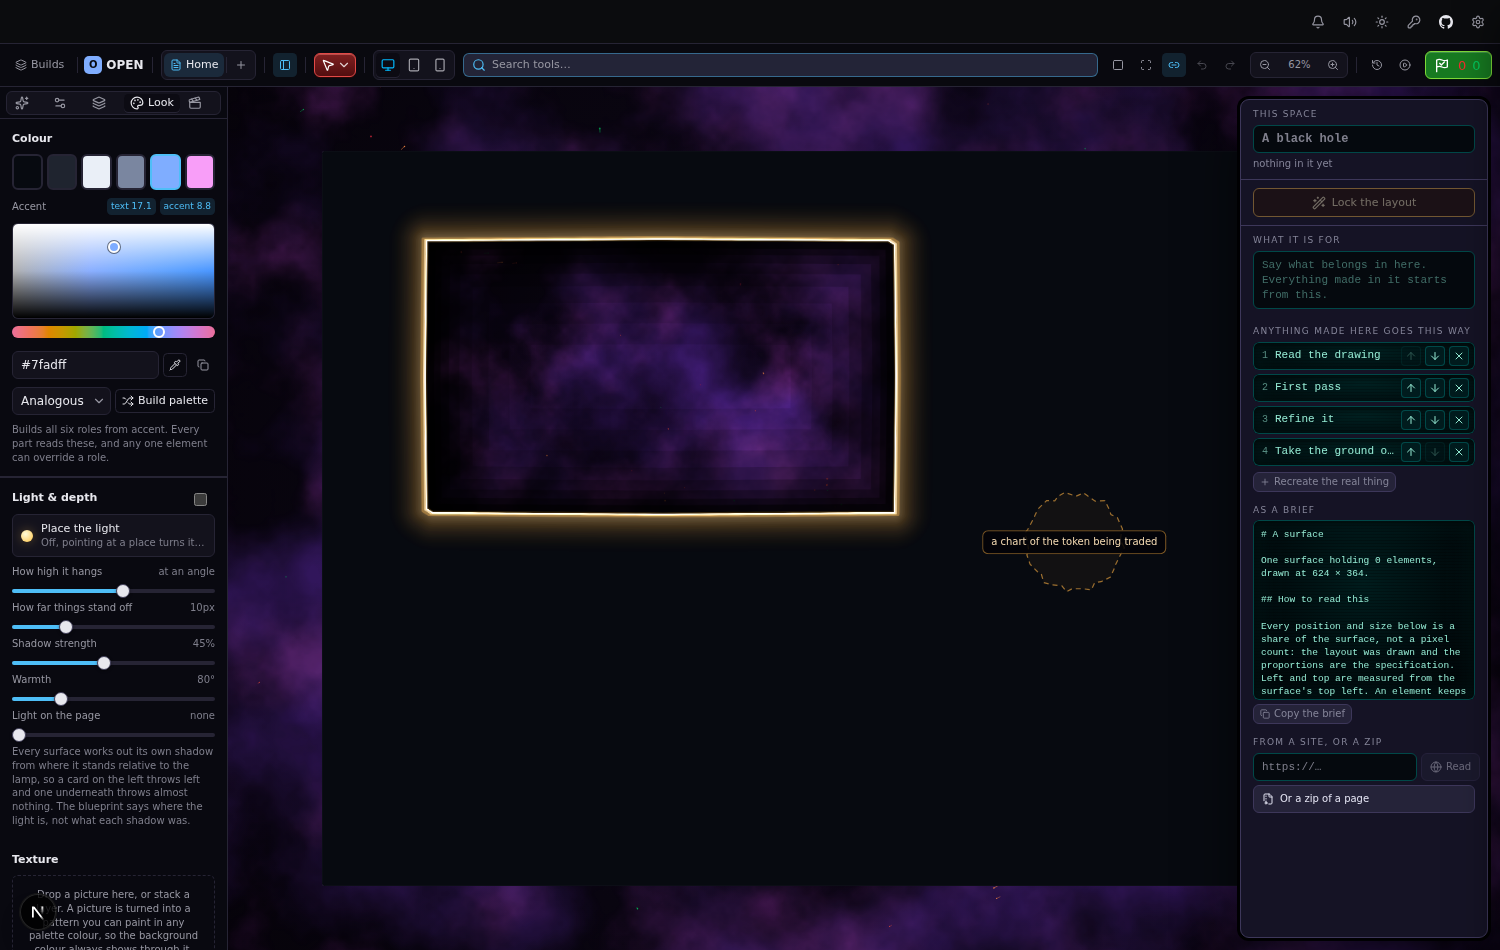
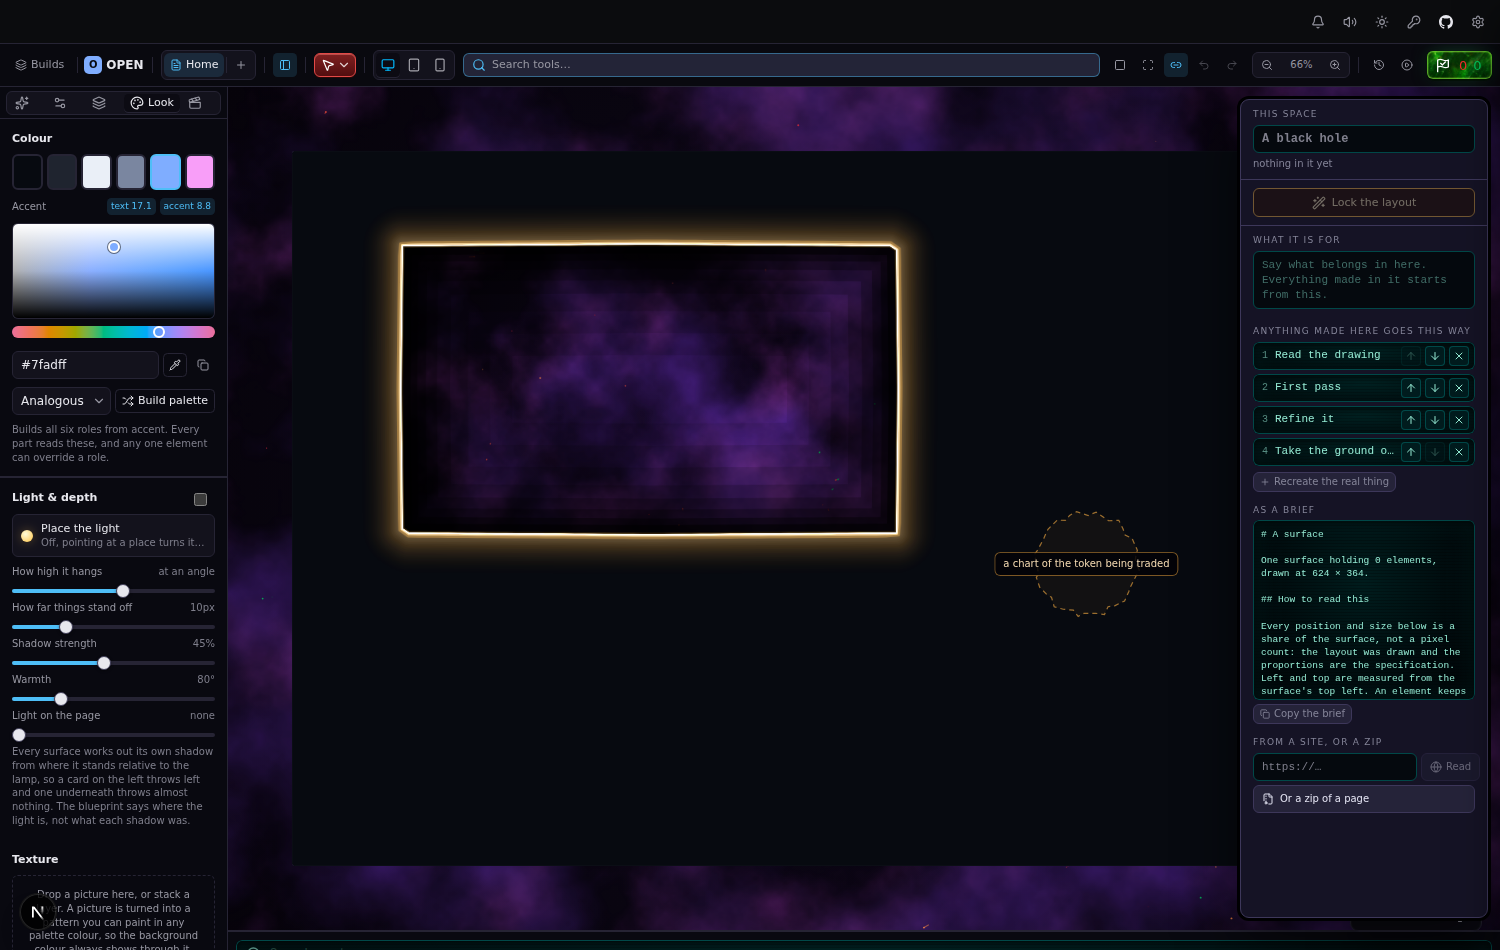
The ring sits the same hair off the line on every side
The hairs of the photon ring were laid outside the line by scaling the
whole shape from its centroid, which moves a point in proportion to its
distance from the middle: on a wide box the long sides got the ring five
pixels out and the short sides three. At the old zoom the aura check's
sample straddled that; on the full-length page the board fits by width
and the sample did not, and the check went red with lifts falling from
one side to another. Every point now moves out along its own normal, so
the ring is a hair off the line the same all the way round.

The check reads each side along its normal, the ring and the light beside
it, rather than one patch at a fixed distance that catches the ring's
peak on one side and lands a pixel past it on the mirrored one; the old
crescent still fails it, aura left 245 against right 19. The create-space
ground read takes a patch of the clouds rather than one pixel of them.

Claude-Session: https://claude.ai/code/session_011dxs3jh1JLZT6UEd7hCDPr

diff --git a/src/features/studio/blackHole.ts b/src/features/studio/blackHole.ts
@@ -243,6 +243,29 @@ function resample(path: SketchPoint[], n: number): SketchPoint[] {
   return out;
 }
 
+/**
+ * The path moved out along itself by `d`: every point along its own
+ * outward normal, not the whole shape scaled from its centroid. Scaling
+ * moves a point in proportion to its distance from the middle, so on a
+ * wide box the long sides went out further than the short ones and a hair
+ * meant to sit four pixels off the line sat five on one side and three on
+ * another. The ring is a hair off the line, the same hair all the way round.
+ */
+function outward(pts: SketchPoint[], d: number): SketchPoint[] {
+  const n = pts.length;
+  if (n < 3) return pts.slice();
+  const [cx, cy] = centroid(pts);
+  return pts.map(([x, y], i) => {
+    const a = pts[(i + n - 1) % n]!, b = pts[(i + 1) % n]!;
+    const tx = b[0] - a[0], ty = b[1] - a[1];
+    const len = Math.hypot(tx, ty) || 1;
+    let nx = ty / len, ny = -tx / len;
+    // Outward is away from the middle of the area, whichever way the line was drawn.
+    if (nx * (x - cx) + ny * (y - cy) < 0) { nx = -nx; ny = -ny; }
+    return [x + nx * d, y + ny * d];
+  });
+}
+
 function trace(c: CanvasRenderingContext2D, pts: SketchPoint[]) {
   c.beginPath();
   pts.forEach(([x, y], i) => (i ? c.lineTo(x, y) : c.moveTo(x, y)));
@@ -335,7 +358,7 @@ export function paintHoleAlong(c: CanvasRenderingContext2D, o: HoleAlongOptions)
   for (const [style, width, out] of [[WARM(0.22), 2.4, 4], [HOT(0.5), 1.6, 2], ["oklch(1 0.02 90 / 1)", 1.4, 0.6]] as [string, number, number][]) {
     c.strokeStyle = style;
     c.lineWidth = width * hair;
-    trace(c, pts.map(([x, y]) => [cx + (x - cx) * (1 + (out * hair) / R), cy + (y - cy) * (1 + (out * hair) / R)] as SketchPoint));
+    trace(c, outward(pts, out * hair));
     c.stroke();
   }
   c.restore();
